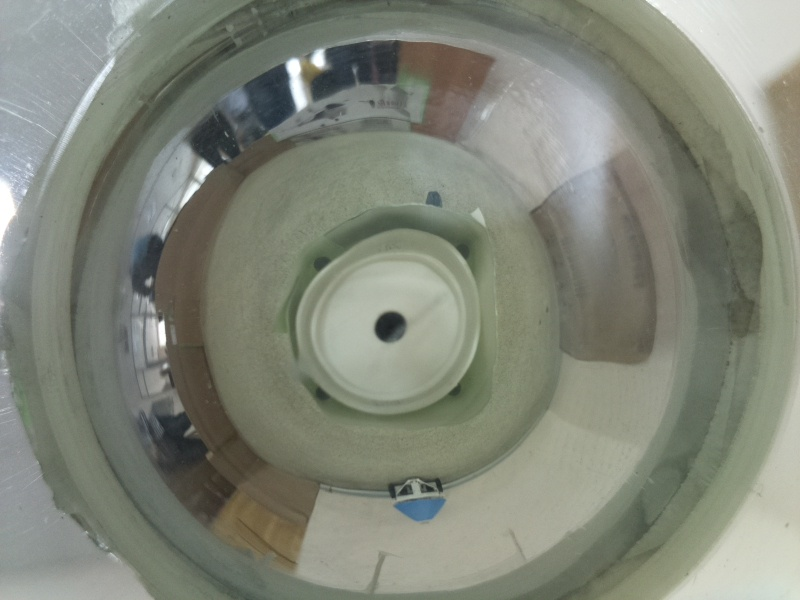
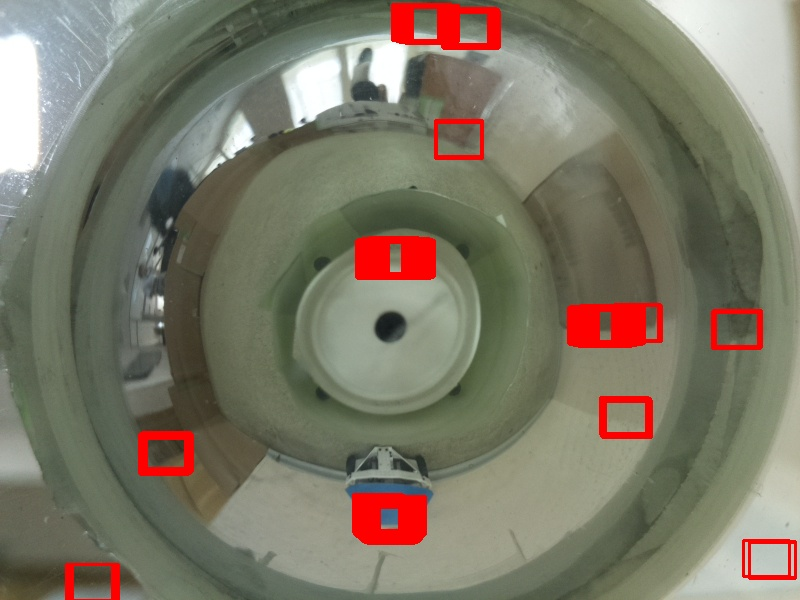
TM法での物体検出と、距離計測
・距離計測を実装しようとしたけど、物体認識精度が悪すぎて、門前払いだった。
・物体認識の精度をなんとか上げましょ。

diff --git a/template_test.py b/template_test.py
@@ -1,16 +1,52 @@
+#!/usr/local/bin/python
+#! -*- coding: utf-8 -*-
+
 import cv2
 import numpy as np
+import sys
 from matplotlib import pyplot as plt
 
-img_rgb = cv2.imread('C:\\Users\\nct20\\Documents\\GitHub\\objectTracking\\image_input\\200mm.jpg')
-img_gray = cv2.cvtColor(img_rgb, cv2.COLOR_BGR2GRAY)
-template = cv2.imread('C:\\Users\\nct20\\Documents\\GitHub\\objectTracking\\image_input\\robot_sample_1000mm.jpg',0)
-w, h = template.shape[::-1]
+#FrameSize(This Robot Use 800*600[pixel])
+FRAME_W = 800
+FRAME_H = 600
 
-res = cv2.matchTemplate(img_gray,template,cv2.TM_CCOEFF_NORMED)
-threshold = 0.8
-loc = np.where( res >= threshold)
-for pt in zip(*loc[::-1]):
-    cv2.rectangle(img_rgb, pt, (pt[0] + w, pt[1] + h), (0,0,255), 2)
+# Cut Mirror Area
+def cut_circle(img):
 
-cv2.imwrite('C:\\Users\\nct20\\Documents\\GitHub\\objectTracking\\image_output\\template_result_1000mm.jpg',img_rgb)
+    # Define 3Layer(BGR)
+    size = FRAME_H, FRAME_W , 1
+
+    # Fill in black use np.fill
+    white_img = np.zeros(size, dtype=np.uint8)
+    white_img.fill(0)
+
+    # Draw Circle filled with White to the right in the Center.
+    cv2.circle(white_img, ((int)(FRAME_W/2-10), (int)(FRAME_H/2+30)), 210, (255), -1)
+    
+    # Mask Processing(Cut Only Mirror Area)
+    result = cv2.bitwise_and(img, img, mask=white_img)
+    
+    return result
+
+# Template Matching
+def template_matching(img_rgb,template,blocksize,param1,i):
+  img_gray = cv2.cvtColor(img_rgb, cv2.COLOR_BGR2GRAY)
+#  th3 = cv2.adaptiveThreshold(img_gray,255,cv2.ADAPTIVE_THRESH_GAUSSIAN_C,cv2.THRESH_BINARY,blocksize,param1)
+  w, h = template.shape[::-1]
+
+  res = cv2.matchTemplate(img_gray,template,cv2.TM_CCOEFF_NORMED)
+  threshold = 0.3
+  loc = np.where( res >= threshold)
+  for pt in zip(*loc[::-1]):
+      cv2.rectangle(img_rgb, pt, (pt[0] + w, pt[1] + h), (0,0,255), 2)
+      print (h)
+      #print (str((h*200)/87) + '[mm]')
+  
+  cv2.imwrite('C:\\Users\\nct20\\Documents\\GitHub\\objectTracking\\image_output\\template_test\\template_result' + '_' + str(i) + '.jpg',img_rgb)
+
+if __name__ == '__main__':
+  image = cv2.imread('C:\\Users\\nct20\\Documents\\GitHub\\objectTracking\\image_input\\300mm.jpg')
+  template = cv2.imread('C:\\Users\\nct20\\Documents\\GitHub\\objectTracking\\image_input\\robot_sample_200mm.jpg',0)
+  image_cut = cut_circle(image)
+  for i in range(1,2):
+      template_matching(image_cut,template,99,-10,i)
